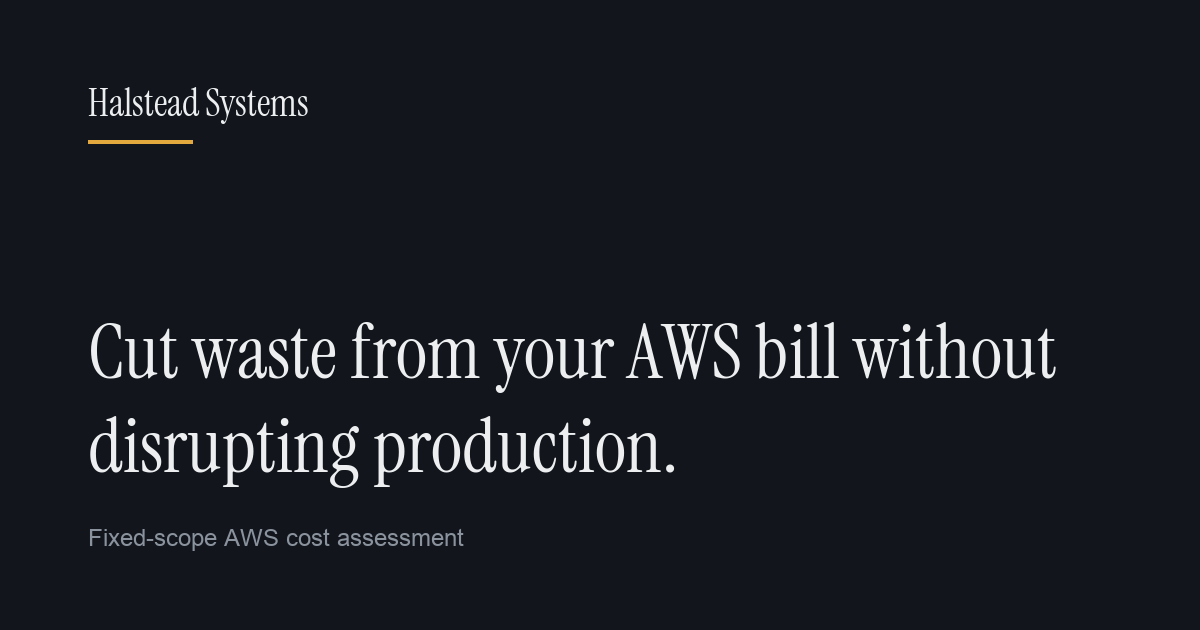
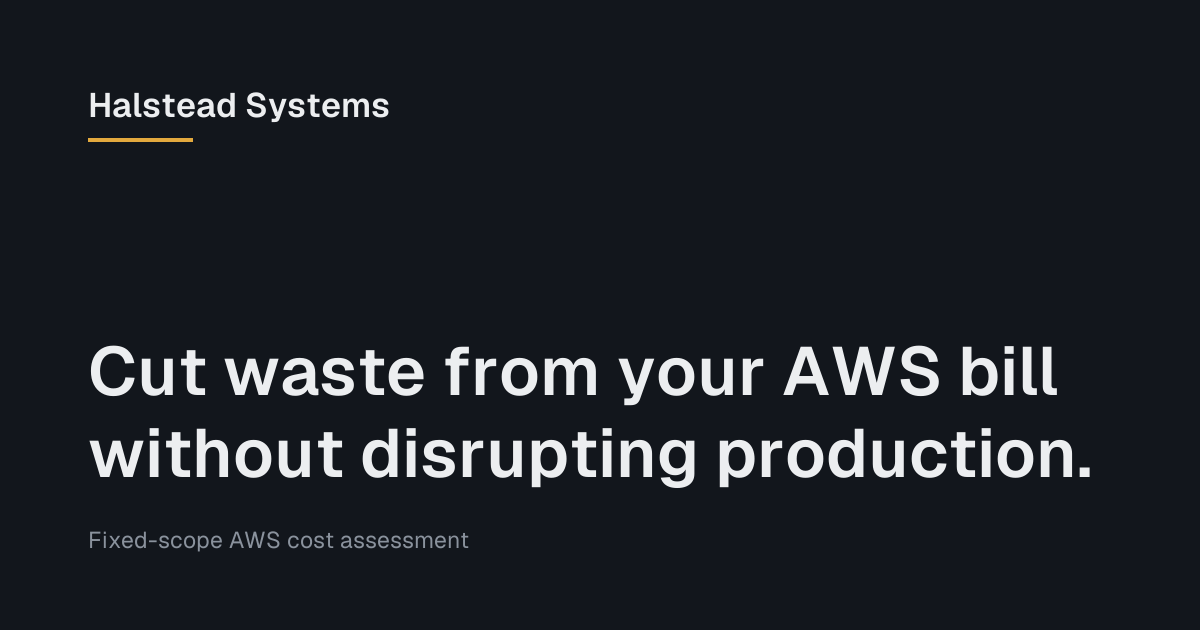
Regenerate the social card in Geist
The card was still set in Instrument Serif, so it no longer matched the page
after the heading font changed.

Geist ships as a variable font, so the script now pulls named instances off
the wght axis rather than loading a static file. Geist SemiBold is much wider
than the serif it replaces and overflowed the card at the old hard coded 76px,
so the headline size is now measured: the script steps down from 72px until
the line breaks into two, which lands at 68px for the current headline and
re-fits on its own if the wording changes.

Update CLAUDE.md for the settled font: the page is one family now, --serif and
--sans hold the same stack, and og.png has to be regenerated whenever the
heading font moves.

diff --git a/tools/make-og.py b/tools/make-og.py
@@ -3,6 +3,9 @@
 
 Run from the repo root:  python3 tools/make-og.py
 Writes og.png in the repo root.
+
+The card is set in the page's heading font so the two match. Geist ships as a
+variable font, so the weights come from named instances on the wght axis.
 """
 
 import os
@@ -18,12 +21,8 @@ MUTED = "#8A929D"
 
 MARGIN = 88
 
-SERIF_URL = (
-    "https://github.com/google/fonts/raw/main/ofl/instrumentserif/"
-    "InstrumentSerif-Regular.ttf"
-)
-SERIF_FALLBACK = "/System/Library/Fonts/Supplemental/Georgia.ttf"
-SANS_FALLBACK = "/System/Library/Fonts/Supplemental/Arial.ttf"
+FONT_URL = "https://github.com/google/fonts/raw/main/ofl/geist/Geist%5Bwght%5D.ttf"
+FONT_FALLBACK = "/System/Library/Fonts/Supplemental/Arial.ttf"
 
 CACHE = os.path.join(os.path.dirname(__file__), ".fonts")
 
@@ -31,18 +30,32 @@ WORDMARK = "Halstead Systems"
 HEADLINE = "Cut waste from your AWS bill without disrupting production."
 KICKER = "Fixed-scope AWS cost assessment"
 
+HEADLINE_MAX = 72
+HEADLINE_MIN = 46
+HEADLINE_LINES = 2
 
-def serif_path():
+
+def font_path():
     """Prefer the live page's heading font; fall back to its CSS fallback."""
     os.makedirs(CACHE, exist_ok=True)
-    local = os.path.join(CACHE, "InstrumentSerif-Regular.ttf")
+    local = os.path.join(CACHE, "Geist[wght].ttf")
     if not os.path.exists(local):
         try:
-            urllib.request.urlretrieve(SERIF_URL, local)
+            urllib.request.urlretrieve(FONT_URL, local)
         except Exception as exc:
-            print("Instrument Serif fetch failed (%s), using Georgia" % exc)
-            return SERIF_FALLBACK
+            print("Geist fetch failed (%s), using Arial" % exc)
+            return FONT_FALLBACK
     return local
+
+
+def load(path, size, weight):
+    """Load one instance of the variable font at a named weight."""
+    font = ImageFont.truetype(path, size)
+    try:
+        font.set_variation_by_name(weight)
+    except Exception:
+        pass  # static fallback has no axes
+    return font
 
 
 def wrap(draw, text, font, max_width):
@@ -59,26 +72,40 @@ def wrap(draw, text, font, max_width):
     return lines
 
 
+def fit_headline(draw, path, max_width):
+    """Largest size that still sets the headline in HEADLINE_LINES lines.
+
+    Geist SemiBold is much wider than the serif this card used to use, so the
+    size cannot be hard coded without the headline overflowing.
+    """
+    for size in range(HEADLINE_MAX, HEADLINE_MIN - 1, -2):
+        font = load(path, size, "SemiBold")
+        lines = wrap(draw, HEADLINE, font, max_width)
+        if len(lines) <= HEADLINE_LINES:
+            return font, lines
+    font = load(path, HEADLINE_MIN, "SemiBold")
+    return font, wrap(draw, HEADLINE, font, max_width)
+
+
 def main():
-    serif = serif_path()
+    path = font_path()
     img = Image.new("RGB", (W, H), BG)
     draw = ImageDraw.Draw(img)
 
-    wordmark_font = ImageFont.truetype(serif, 38)
-    headline_font = ImageFont.truetype(serif, 76)
-    kicker_font = ImageFont.truetype(SANS_FALLBACK, 24)
+    max_width = W - (MARGIN * 2)
+    wordmark_font = load(path, 34, "SemiBold")
+    kicker_font = load(path, 23, "Regular")
+    headline_font, lines = fit_headline(draw, path, max_width)
 
     # Wordmark, top left.
-    draw.text((MARGIN, MARGIN - 10), WORDMARK, font=wordmark_font, fill=INK)
+    draw.text((MARGIN, MARGIN - 6), WORDMARK, font=wordmark_font, fill=INK)
 
     # Thin amber rule under the wordmark, the only ornament on the card.
-    rule_y = MARGIN + 52
+    rule_y = MARGIN + 50
     draw.rectangle([MARGIN, rule_y, MARGIN + 104, rule_y + 3], fill=AMBER)
 
     # Headline, set to fill the lower two thirds.
-    max_width = W - (MARGIN * 2)
-    lines = wrap(draw, HEADLINE, headline_font, max_width)
-    leading = 94
+    leading = round(headline_font.size * 1.2)
     block_h = leading * len(lines)
     y = H - MARGIN - 52 - block_h
     for line in lines:
@@ -90,7 +117,7 @@ def main():
 
     out = os.path.join(os.path.dirname(os.path.dirname(os.path.abspath(__file__))), "og.png")
     img.save(out, "PNG", optimize=True)
-    print("wrote %s %s" % (out, img.size))
+    print("wrote %s %s  headline %dpx in %d lines" % (out, img.size, headline_font.size, len(lines)))
 
 
 if __name__ == "__main__":

diff --git a/CLAUDE.md b/CLAUDE.md
@@ -7,9 +7,9 @@ deployed on Vercel from `main`.
 
 Changes go straight to `main`. Do not open pull requests.
 
-Font-variant work is the one exception: those live on their own branches
-(`font-newsreader`, `font-schibsted`, `font-geist`) so Vercel builds a preview for each.
-When one is chosen, merge it into `main` directly and delete the rest.
+Trying alternate fonts or layouts is the one exception: put each on its own branch so
+Vercel builds a preview for it, compare, then merge the winner into `main` directly and
+delete the rest. The heading font was settled this way and those branches are gone.
 
 ## What the page is for
 
@@ -52,8 +52,11 @@ grep -oE '\$[0-9][0-9,.]*[KkMm]?(/month)?' index.html | sort -u                 
 ## Design constraints
 
 - Dark palette with amber accent. Both are CSS variables at the top of the `<style>` block.
-- Heading font is a CSS variable (`--serif`) plus `--h-weight` / `--h-track` / `--h1-track`,
-  so a font variant is a change to those variables only.
+- The page uses one family, Geist, for both headings and body. `--serif` and `--sans` hold
+  the same stack; the names are historical, from when headings were set in a serif. Heading
+  weight and tracking are `--h-weight` / `--h-track` / `--h1-track`, so a font change is a
+  change to those variables and the Google Fonts link, nothing else.
+- `og.png` is set in the heading font, so a font change means regenerating it. See below.
 - Body copy 18px, line length under 70 characters.
 - Sections alternate between `--bg` and `--raised` via `.band` / `.band--raised`.
 - Buttons: 6px radius, solid amber primary, outlined secondary in the header.
@@ -82,5 +85,9 @@ python3 -m http.server 8787 --bind 127.0.0.1    # then open http://127.0.0.1:878
 python3 tools/make-og.py
 ```
 
-It downloads the heading font into `tools/.fonts/` (gitignored) and writes a 1200x630 `og.png`
-at the repo root. Rerun it whenever the wordmark, headline, or heading font changes.
+It downloads Geist into `tools/.fonts/` (gitignored) and writes a 1200x630 `og.png` at the
+repo root. Rerun it whenever the wordmark, headline, or heading font changes.
+
+Geist is a variable font, so the script pulls its SemiBold instance off the `wght` axis to
+match the page. The headline size is not hard coded: the script steps down from 72px until
+the line breaks into two, because a weight or wording change moves that threshold.
